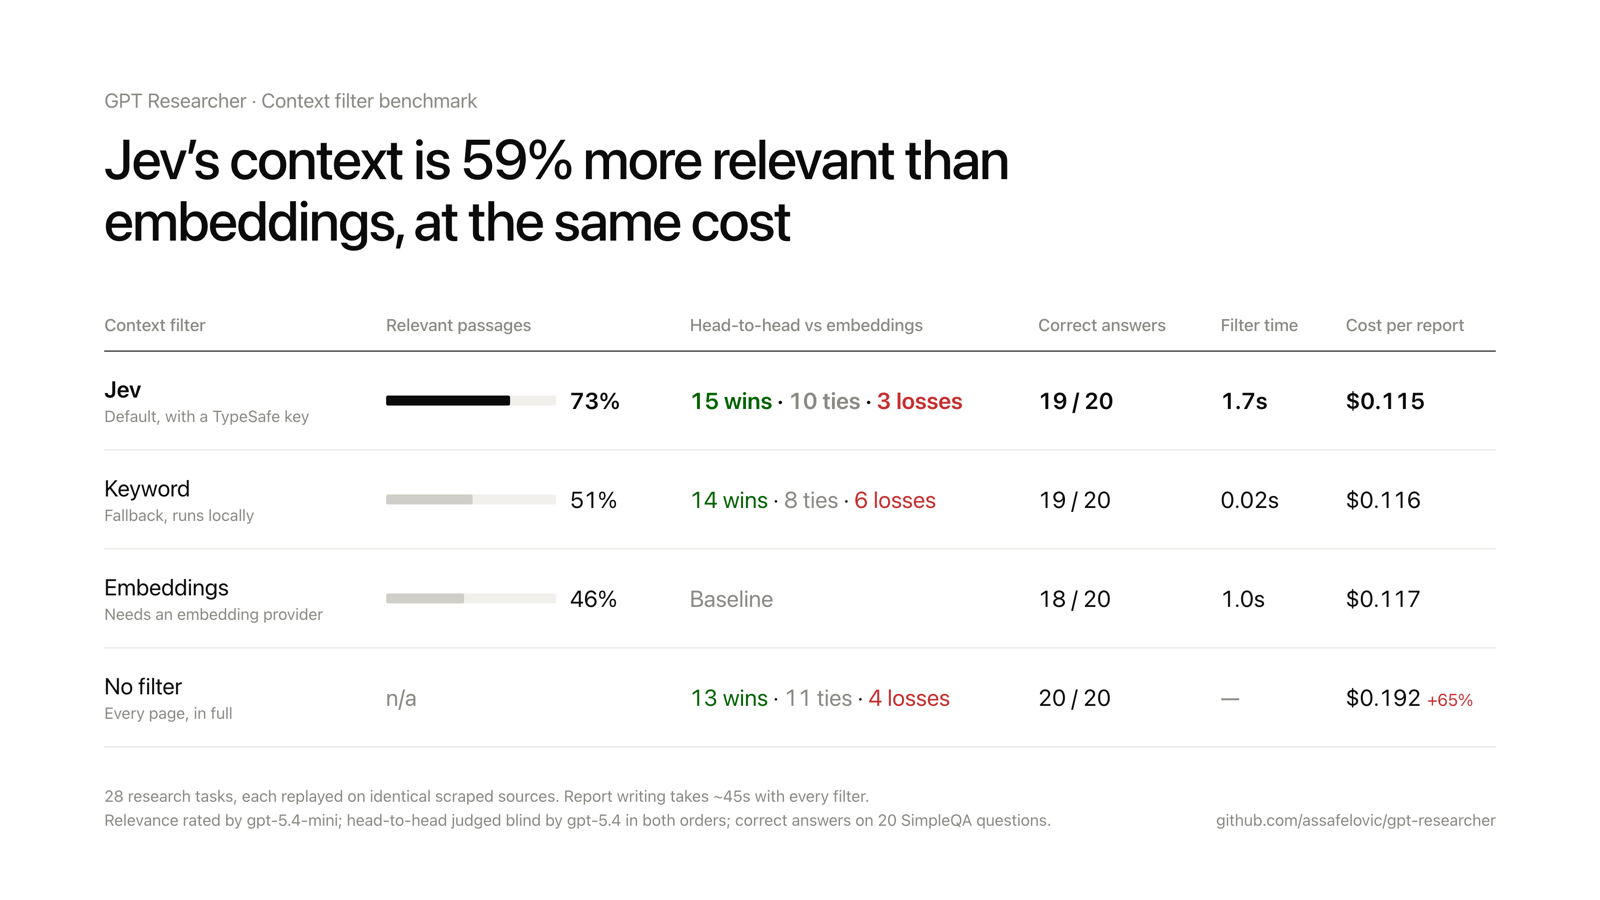
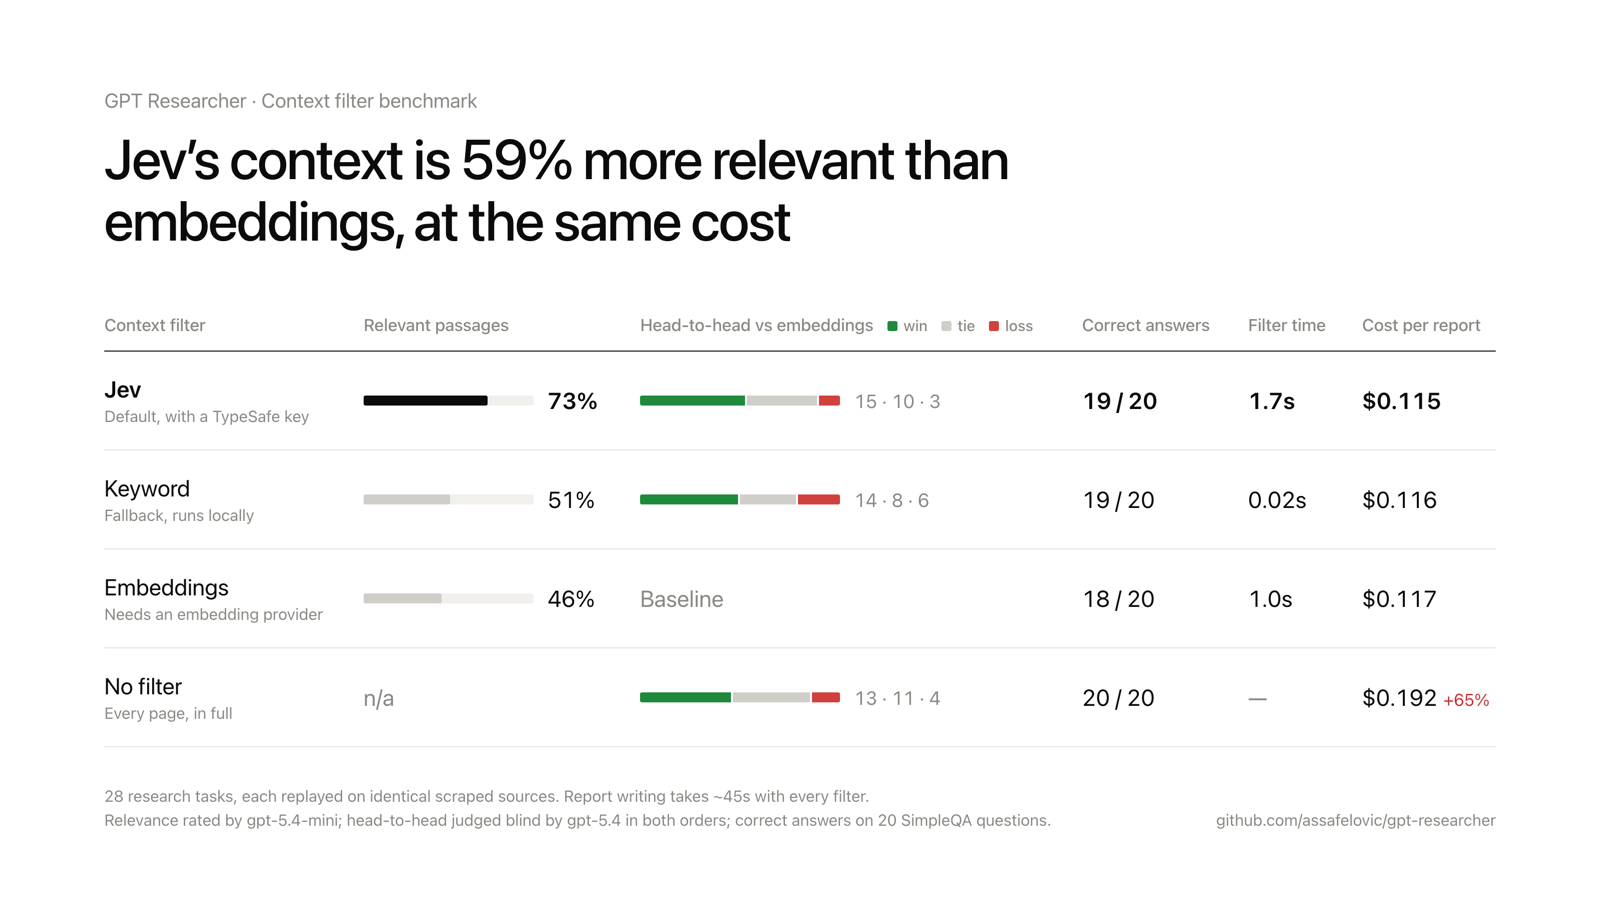
docs: technical context filter page with the full benchmark
Rewrite the Context Filter page as the technical reference: where the
filter sits in the pipeline, the exact Jev request and rubric, how
selection, concurrency, retries, limits and cost accounting work, how
the keyword (BM25) fallback scores and selects, the fallback chain,
and the benchmark method, every result table (including the Jev and
keyword configurations that were tested and not shipped), findings,
caveats and reproduction steps. Adds the results graphic.

diff --git a/docs/docs/gpt-researcher/gptr/context-filter.md b/docs/docs/gpt-researcher/gptr/context-filter.md
@@ -1,47 +1,173 @@
 # Context Filter
 
-Each research sub-query scrapes several pages, and only some of each page helps answer the question. Before anything reaches the LLM, GPT Researcher cuts the pages into passages and keeps the ones worth using. Report chat uses the same step to pick the parts of a report that answer your message. `CONTEXT_FILTER` chooses how:
+![Context filter benchmark results](./img/context-filter-results.png)
 
-| value | how passages are chosen | needs |
-|---|---|---|
-| `auto` (default) | `jev` when `TYPESAFE_API_KEY` is set, otherwise `keyword` | nothing |
-| `jev` | [TypeSafe's Jev](https://docs.typesafe.ai/) scores how useful each passage is for the question; the best are kept | `TYPESAFE_API_KEY` |
-| `keyword` | BM25 keyword ranking, computed locally | nothing |
-| `embeddings` | embedding similarity to the question | an `EMBEDDING` provider |
-| `none` | no filtering: every page goes to the LLM in full | nothing |
+Every research run scrapes dozens of pages, and most of each page doesn't help answer the question. The **context filter** is the step that decides which passages the LLM actually reads. It is the single biggest lever on report quality after search itself: whatever it drops, the writer never sees, and whatever noise it keeps, the writer has to wade through.
 
-**Nothing is required.** If a Jev call fails, or the embedding model can't be built, GPT Researcher falls back to `keyword`, so no setting can leave a run without context. Only the `embeddings` mode ever builds an embedding model.
+GPT Researcher uses **[Jev](https://typesafe.ai/blog/introducing-system-one-models-and-jev)** by TypeSafe as its default context filter. Jev scores how *useful* each passage is for the question, rather than how *similar* it looks. On our benchmark, **Jev's context is 59% more relevant than embeddings, at the same cost** (73% of kept passages relevant, against 46%). With no TypeSafe key, GPT Researcher falls back to a local keyword filter that needs no API, model or embeddings. No filter mode is required.
 
-## Results
+This page covers how the filter works, how Jev is integrated, and the benchmark behind the defaults.
 
-We replayed 28 research tasks (20 [SimpleQA](https://openai.com/index/introducing-simpleqa/) questions with known answers and 8 open-ended ones) through every filter, using the same scraped pages and the same writer model, so that only the filter changed. Full method, tables and reproduction steps are in [`evals/context_filter`](https://github.com/assafelovic/gpt-researcher/tree/main/evals/context_filter).
+## Where the filter sits
 
-| filter | relevant passages kept | head-to-head vs embeddings | filter time (median) | cost per report |
-|---|---|---|---|---|
-| **jev** | **73%** | **15 wins · 10 ties · 3 losses** | 1.7s | $0.115 |
-| keyword | 51% | 14 wins · 8 ties · 6 losses | 0.02s | $0.116 |
-| embeddings | 46% | — | 1.0s | $0.117 |
-| none | — | 13 wins · 11 ties · 4 losses | — | $0.192 |
-
-- **Jev** is the most accurate filter, for the same cost as embeddings. Its gain comes from its threshold: a calibrated usefulness score can say that nothing else on a page is worth including, which a similarity score can't.
-- **Keyword** is the fallback that needs nothing. It matched or beat embeddings on every measure, and runs in milliseconds with no API call. Keeping only passages that score at least half as well as the best one is what makes it work; plain top-10 keyword ranking lost to embeddings.
-- **None** writes the broadest reports on open-ended questions, but costs 65% more per report and sent up to 108k tokens to the writer on a standard report. Use it when quality matters more than cost, and not with detailed or deep research, which run many more sub-queries.
-- Writing the report takes about 45 seconds with every filter, so a run's total time changes only by the filter step.
-
-## Configuration
-
-```bash
-export TYPESAFE_API_KEY=...          # enables jev under the default `auto`
-export CONTEXT_FILTER=auto           # auto | jev | keyword | embeddings | none
-
-export JEV_MIN_SCORE=1.5             # 0-3 usefulness a passage needs to be kept
-export JEV_CONCURRENCY=64            # parallel Jev calls per process
-export JEV_CHUNK_SIZE=1000           # characters per scored passage
-
-export KEYWORD_RELATIVE_THRESHOLD=0.5  # keep passages scoring >= this fraction of the best
-export KEYWORD_MAX_RESULTS=25          # most passages kept per sub-query
+```
+query ─► plan sub-queries ─► for each sub-query:
+                               search ─► scrape pages ─► CONTEXT FILTER ─► passages
+                                                                            │
+                        all sub-queries' passages ─► writer LLM ─► report ◄─┘
 ```
 
-Jev's usefulness scale runs from 0 (unrelated) through 1 (same topic, doesn't help) and 2 (partially answers or gives useful supporting facts) to 3 (directly answers with specifics). The default threshold of 1.5 keeps passages that at least partially answer the question.
+For every sub-query, the scraped pages go through `select_context()` (`gpt_researcher/context/select.py`). Each page is capped at 50,000 characters and split into 1,000-character chunks with 100 characters of overlap. The filter then chooses which chunks become context. Up to 10 are kept per sub-query for Jev and embeddings, and up to 25 for keyword. Sub-queries run concurrently, and their contexts are joined and passed to the writer.
 
-Embeddings are still used for vector stores you pass in yourself (`vector_store=`), and, when an embedding model is available, to spot overlap between sections of detailed reports; without one, that check uses keyword ranking too.
+**Report chat uses the same function.** When you chat with a finished report, the report is treated as a single page and the latest message as the query, so chat gets exactly the same filtering, and the same fallbacks, as research.
+
+## Modes
+
+Set with `CONTEXT_FILTER`:
+
+| mode | how passages are chosen | needs |
+|---|---|---|
+| `auto` (default) | `jev` when `TYPESAFE_API_KEY` is set, otherwise `keyword` | nothing |
+| `jev` | Jev usefulness score per chunk, above a threshold | `TYPESAFE_API_KEY` |
+| `keyword` | BM25 keyword ranking, relative threshold | nothing |
+| `embeddings` | cosine similarity between chunk and query embeddings | an `EMBEDDING` provider |
+| `none` | no filtering: every page, in full | nothing |
+
+**Fallback chain:** `jev` falls back to `keyword` on any failure (missing key, network error, rate limiting after retries, malformed response). `embeddings` falls back to `keyword` if the embedding model can't be built. So no setting can leave a run without context, and only the `embeddings` mode ever constructs an embedding model. When a page set is small (under 8,000 characters in total, with no more pages than the chunk budget), every mode passes it through unfiltered.
+
+## How Jev is used
+
+Jev is a *System One* model: instead of generating text, it answers typed questions about an input, and returns calibrated probabilities. GPT Researcher asks it one question per chunk: how useful is this passage for answering the sub-query, on a four-level rubric.
+
+```http
+POST https://api.typesafe.ai/v1/systemone
+Authorization: Bearer $TYPESAFE_API_KEY
+
+{
+  "state": "<the 1,000-character chunk>",
+  "model": "jev-latest",
+  "questions": {
+    "usefulness": {
+      "type": "score",
+      "instructions": "How useful is this passage for answering the question: <sub-query>",
+      "criteria": [
+        "Unrelated to the question",
+        "Same topic, but does not help answer the question",
+        "Partially answers the question or gives useful supporting facts",
+        "Directly answers the question with specific facts"
+      ]
+    }
+  }
+}
+```
+
+The response's `score` is the probability-weighted level, from 0 to 3. A chunk that is certainly "directly answers" scores 3.0; one split evenly between "partially answers" and "directly answers" scores 2.5.
+
+**Selection.** Chunks are sorted by score, ties kept in page order, and a chunk is kept only if it scores at least `JEV_MIN_SCORE` (1.5, meaning it at least partially answers the question), up to the budget. The threshold matters more than the ranking. Forced to fill all 10 slots with no threshold, Jev's precision drops from 73% to 50%, barely above embeddings. A calibrated usefulness score can say "nothing else on this page is worth including"; a similarity score can't.
+
+**Throughput.** Jev takes one input per request, so every chunk is its own call. Calls run in parallel under a per-process limit of `JEV_CONCURRENCY` (64). We measured about 0.33s per warm call, with latency nearly flat in input size (0.45s at 13k tokens), and 64 concurrent calls completing in about 1.1s. The limit is shared per event loop, because concurrent sub-queries would otherwise each open their own full-width pool. Raising it to 128 made filtering no faster.
+
+**Limits and errors.** Jev accepts up to about 32k tokens of input per call; 1,000-character chunks are far below that. HTTP 429 (rate limited) and 529 (overloaded) are retried up to three times with exponential backoff. Any other failure raises `JevError`, and `select_context` falls back to `keyword`.
+
+**Cost.** Jev bills $0.042 per million input tokens; output tokens are free. Each call's `usage.input_tokens` is added to the research cost, so `researcher.get_costs()` includes Jev. In the benchmark, filtering cost about half a cent per report.
+
+## How the keyword fallback works
+
+`keyword` ranks the same chunks with **BM25**, the lexical scoring behind most search engines, computed over the chunks scraped for that sub-query (`gpt_researcher/context/lexical.py`). It is pure Python with no dependencies, and filters a typical sub-query in about 20 milliseconds.
+
+- **Tokens:** lowercase word tokens (Unicode-aware, so non-English text works), English stopwords removed, and light plural stemming so "batteries" matches "battery" and "costs" matches "cost".
+- **Scoring:** standard BM25 (k1 = 1.5, b = 0.75), with IDF computed from the sub-query's own chunks.
+- **Selection:** keep chunks scoring at least `KEYWORD_RELATIVE_THRESHOLD` (0.5) of the best chunk, up to `KEYWORD_MAX_RESULTS` (25). As with Jev, the threshold is what makes it work: plain top-10 BM25 lost to embeddings in the benchmark. If nothing matches any query term, the pages' opening chunks are used.
+
+## The benchmark
+
+The defaults above come from a controlled replay benchmark in [`evals/context_filter`](https://github.com/assafelovic/gpt-researcher/tree/main/evals/context_filter). Anyone can rerun it.
+
+### Method
+
+1. **Record.** `collect.py` ran 28 real research tasks through GPT Researcher and recorded the exact pages that reached the filter for each sub-query. The tasks were 20 [SimpleQA](https://openai.com/index/introducing-simpleqa/) questions with known answers (fixed random seed) and 8 open-ended research questions: memory chip shortage causes, solid-state vs lithium-ion batteries, intermittent fasting evidence, the EU AI Act, base vs prime editing, carbon capture costs, the 2008 financial crisis, and LLM factuality evaluation. That came to a median of 4 filter calls, 10.5 pages and 168k characters per task.
+2. **Replay.** `replay.py` rebuilt each task's context from the *same recorded pages* with every filter, and wrote the report with the same model (`gpt-5.4`). Search and scraping, the noisiest parts of a run, were held constant, so the filter is the only thing that differs.
+3. **Judge.** `judge.py` scored every report three ways:
+   - **Relevant passages (precision):** the share of the passages given to the writer that an independent judge (`gpt-5.4-mini`) rated relevant to the question. This measures the filter directly.
+   - **Head-to-head:** a blind comparison against the embeddings report for the same task, judged by `gpt-5.4` on accuracy and specificity, then relevance, then completeness. Each pair was judged in both orders, and it counts as a win or loss only if both orders agree; otherwise it is a tie.
+   - **Correct answers:** SimpleQA reports graded against the known answer with the repository's SimpleQA grader.
+
+### Results
+
+| filter | relevant passages | head-to-head vs embeddings (win · tie · loss) | correct answers | filter time (median) | context sent (median) | cost per report |
+|---|---|---|---|---|---|---|
+| **Jev** | **73%** | **15 · 10 · 3** | 19/20 | 1.7s | 4.5k tokens | $0.115 |
+| Keyword | 51% | 14 · 8 · 6 | 19/20 | 0.02s | 6.4k tokens | $0.116 |
+| Embeddings | 46% | baseline | 18/20 | 1.0s | 7.6k tokens | $0.117 |
+| Unranked (control) | 33% | 7 · 8 · 13 | 19/20 | 0.01s | 8.0k tokens | $0.117 |
+| No filter | n/a | 13 · 11 · 4 | 20/20 | — | 33.4k tokens | $0.192 |
+
+*The unranked control takes the same 10-chunk budget round-robin across pages, with no relevance ranking. It shows how much ranking matters at all. Jev's filter time is at the default concurrency of 64 (3.6s at p90); embeddings' p90 is 1.3s.*
+
+Report writing took about 45 seconds with every filter, because generating the output dominates, not reading the input. **A run's total time therefore changes only by the filter step**: Jev adds about 0.7s at the median over embeddings, on a run of roughly two minutes.
+
+### Other Jev configurations tested
+
+| configuration | relevant passages | vs embeddings | notes |
+|---|---|---|---|
+| 1,000-char chunks, threshold 1.5, up to 10 (**default**) | 73% | 15 · 10 · 3 | |
+| No threshold, top 10 | 50% | 13 · 10 · 5 | the threshold is the source of the gain |
+| 3,000-char chunks, top 4 | 72% | 11 · 10 · 7 | a third of the API calls; 1.2s median |
+| Threshold 1.5, up to 30 | 74% | 13 · 8 · 7 | few extra chunks clear the threshold |
+| 3,000-char chunks, threshold 1.0, up to 12 | 76% | 7 · 1 · 0 (open-ended) | larger context, $0.191 per report |
+
+### Keyword configurations tested
+
+| configuration | relevant passages | vs embeddings | cost per report |
+|---|---|---|---|
+| BM25, top 10 | 40% | 7 · 9 · 12 | $0.118 |
+| BM25, ≥ 50% of best, top 10 | 53% | 7 · 13 · 8 | $0.107 |
+| **BM25, ≥ 50% of best, up to 25 (shipped)** | 51% | **14 · 8 · 6** | $0.116 |
+| Pages in search order, 48k characters per sub-query | 54% | 11 · 13 · 4 | $0.152 |
+
+Ranking by how often a source appears across sub-queries was also considered, but GPT Researcher removes duplicate URLs before scraping, and none of the 300 recorded pages recurred, so that signal isn't available at this step.
+
+### What the results show
+
+1. **Jev is the most accurate filter, at the same cost as embeddings.** 73% of the passages it keeps are relevant, against 46% for embeddings. Its reports won 15–3 head-to-head (sign test on the 18 non-ties, p ≈ 0.008). Every Jev configuration tested beat embeddings.
+2. **The gain is less noise, not more content.** Jev sends *less* context (4.5k vs 7.6k tokens), and the amount of relevant text is about the same (≈ 3.3k vs 3.5k tokens). What changes is how much irrelevant text the writer has to read.
+3. **No integration is needed for a good fallback.** Keyword ranking with a relative threshold is at least as good as embeddings on every measure, at the same cost and about 50× faster to filter. Its 14–6 head-to-head is directional (p ≈ 0.12), not as strong as Jev's.
+4. **Skipping the filter costs more and isn't faster.** Sending every page wins on open-ended questions (8–0 against embeddings), because more material makes broader reports, but it costs 65% more per report on average (83% on open-ended questions) and sent up to 108k tokens to the writer on a standard report. Detailed and deep research run many more sub-queries, so the gap grows there. On fact-finding questions it adds nothing.
+5. **SimpleQA is saturated.** 18–20 of 20 for every filter: when search finds the fact, any reasonable filter keeps it, so differences of a question or two are noise.
+
+### Caveats
+
+- 28 tasks, with one writer model and one report type (`research_report`). Detailed and deep research were not replayed.
+- Reports were written and head-to-head judged by the same model family (`gpt-5.4`). Any self-preference applies equally to every filter, but pairwise results are directional evidence, not a leaderboard.
+- The benchmark cost about $41 in tracked writing and filtering across all configurations (Jev: $0.59), plus an estimated $8–15 for judging.
+
+### Reproduce
+
+```bash
+export OPENAI_API_KEY=... TAVILY_API_KEY=... TYPESAFE_API_KEY=...
+python -m evals.context_filter.collect --out runs/                 # record 28 tasks
+python -m evals.context_filter.replay  --runs runs/ --out results/  # every filter, same pages
+python -m evals.context_filter.judge   --results results/            # precision, head-to-head, SimpleQA
+```
+
+Per-run metrics and scores from the run above are committed in `evals/context_filter/results/`. Scraped pages and generated reports are not.
+
+## Configuration reference
+
+```bash
+export TYPESAFE_API_KEY=...              # enables jev under the default `auto`
+export CONTEXT_FILTER=auto               # auto | jev | keyword | embeddings | none
+
+export JEV_MIN_SCORE=1.5                 # 0-3 usefulness a chunk needs to be kept
+export JEV_CONCURRENCY=64                # parallel Jev calls per process
+export JEV_CHUNK_SIZE=1000               # characters per scored chunk
+export JEV_MODEL=jev-latest
+
+export KEYWORD_RELATIVE_THRESHOLD=0.5    # keep chunks scoring >= this fraction of the best
+export KEYWORD_MAX_RESULTS=25            # most chunks kept per sub-query
+
+export SIMILARITY_THRESHOLD=0.42         # embeddings mode only
+export COMPRESSION_THRESHOLD=8000        # below this many characters, pages pass through unfiltered
+```
+
+Embeddings are still used for vector stores you pass in yourself (`vector_store=`). When an embedding model is available, they are also used to spot overlap between sections of detailed reports; without one, that check uses keyword ranking.
